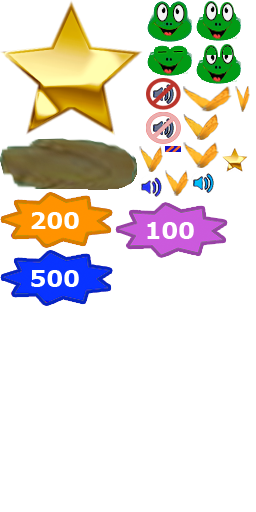
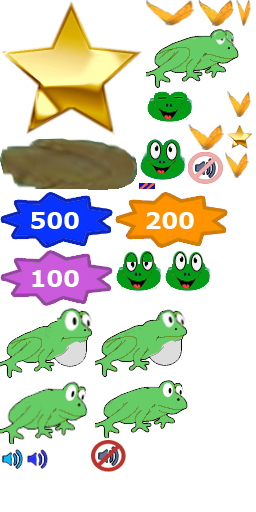
bullfrog added, extras animations finetuned

diff --git a/cutepult/ComboSeeMe.mm b/cutepult/ComboSeeMe.mm
@@ -130,9 +130,16 @@ static inline float mtp(float d)
         
         CCSprite *butterfly = [CCSprite spriteWithSpriteFrameName:@"Butterfly1.png"];     
         [self addChild:butterfly z:-10 tag:88];
-        butterfly.position = ccp(60.0f, 140.0f);
+        butterfly.position = ccp(95.0f, 100.0f);
+        butterfly.scale = 0.75f;
         [butterfly runAction:[self createButterflyAnim:YES]];
 
+        CCSprite *bullfrog = [CCSprite spriteWithSpriteFrameName:@"bullfrog1.png"];     
+        [self addChild:bullfrog z:-10 tag:88];
+        bullfrog.position = ccp(225.0f, 140.0f);
+        bullfrog.scale = 0.5f;
+        [bullfrog runAction:[self createBullfrogAnim:YES]];
+        
         //add the score sprites
         score100 = [CCSprite spriteWithSpriteFrameName:@"score100.png"];     
         score200 = [CCSprite spriteWithSpriteFrameName:@"score200.png"];     
@@ -348,24 +355,48 @@ static inline float mtp(float d)
         [walkAnimFrames addObject:[[CCSpriteFrameCache sharedSpriteFrameCache] spriteFrameByName:[NSString stringWithFormat:@"Butterfly%d.png", i]]];
     }
     
-    CCAnimation *walkAnim2 = [CCAnimation animationWithFrames:walkAnimFrames delay:0.2f];
+    CCAnimation *walkAnim2 = [CCAnimation animationWithFrames:walkAnimFrames delay:0.1f];
     
-    CCAnimate *blink2 = [CCAnimate actionWithDuration:0.4f animation:walkAnim2 restoreOriginalFrame:YES];
+    CCAnimate *blink2 = [CCAnimate actionWithDuration:0.21f animation:walkAnim2 restoreOriginalFrame:YES];
     
     CCAction *walkAction2 = [CCRepeatForever actionWithAction:
                             [CCSequence actions:
-                             [CCDelayTime actionWithDuration:CCRANDOM_0_1()*2.0f],
+                             [CCDelayTime actionWithDuration:CCRANDOM_0_1()*1.0f],
                              blink2,
-                             [CCDelayTime actionWithDuration:CCRANDOM_0_1()*3.0f],
+                             [CCDelayTime actionWithDuration:CCRANDOM_0_1()*2.0f],
                              blink2,
                              [CCDelayTime actionWithDuration:CCRANDOM_0_1()*0.2f],
                              blink2,
-                             [CCDelayTime actionWithDuration:CCRANDOM_0_1()*2.0f],
+                             [CCDelayTime actionWithDuration:CCRANDOM_0_1()*1.0f],
                              nil]
                             ];
     return walkAction2;
 }
 
+- (CCAction*)createBullfrogAnim:(BOOL)isTarget {
+    [walkAnimFrames removeAllObjects];
+    for (int i=1; i<6; i++) {
+        //[walkAnimFrames addObject:[[CCSpriteFrameCache sharedSpriteFrameCache] spriteFrameByName:[NSString stringWithFormat:@"blinker%dsm.png", i]]];
+        [walkAnimFrames addObject:[[CCSpriteFrameCache sharedSpriteFrameCache] spriteFrameByName:[NSString stringWithFormat:@"bullfrog%d.png", i]]];
+    }
+    
+    CCAnimation *walkAnim3 = [CCAnimation animationWithFrames:walkAnimFrames delay:0.4f];
+    
+    CCAnimate *blink3 = [CCAnimate actionWithDuration:0.3f animation:walkAnim3 restoreOriginalFrame:YES];
+    
+    CCAction *walkAction3 = [CCRepeatForever actionWithAction:
+                             [CCSequence actions:
+                              [CCDelayTime actionWithDuration:CCRANDOM_0_1()*2.0f],
+                              blink3,
+                              [CCDelayTime actionWithDuration:CCRANDOM_0_1()*3.0f],
+                              blink3,
+                              [CCDelayTime actionWithDuration:CCRANDOM_0_1()*0.2f],
+                              blink3,
+                              [CCDelayTime actionWithDuration:CCRANDOM_0_1()*2.0f],
+                              nil]
+                             ];
+    return walkAction3;
+}
 -(void) draw
 {
 	// Default GL states: GL_TEXTURE_2D, GL_VERTEX_ARRAY, GL_COLOR_ARRAY, GL_TEXTURE_COORD_ARRAY

diff --git a/cutepult/ComboSeeMe.h b/cutepult/ComboSeeMe.h
@@ -88,5 +88,6 @@
 -(void)endGame:(b2Body*)bodyB;
 - (void)gotoHS;
 - (CCAction*)createButterflyAnim:(BOOL)isTarget;
+- (CCAction*)createBullfrogAnim:(BOOL)isTarget;
 
 @end
